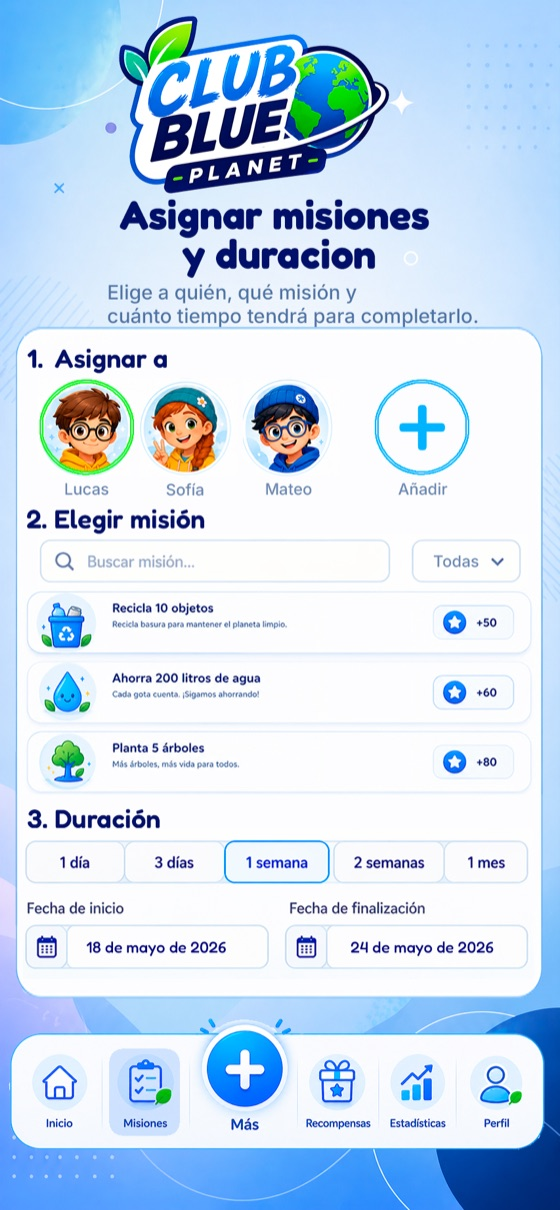
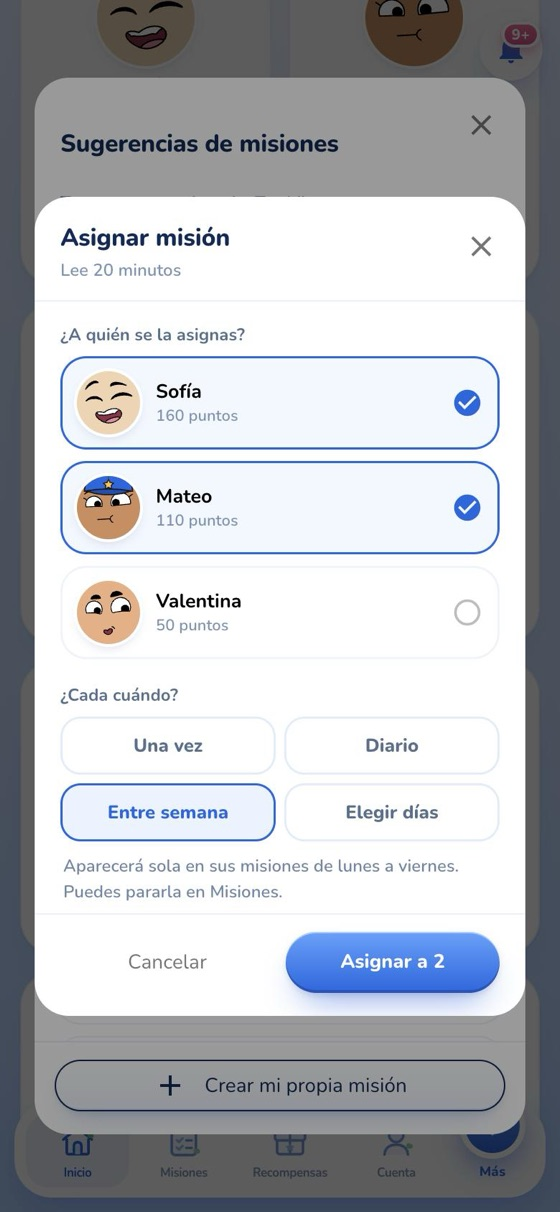
Home: real app screenshots; copy matches what the app does; drop placeholder stats and testimonials

diff --git a/home/index.html b/home/index.html
@@ -473,8 +473,8 @@
         <div class="mt-10 grid items-center gap-10 md:grid-cols-2 md:gap-14">
           <div class="phone-stage mx-auto w-full max-w-[290px]">
             <div class="phone">
-              <img src="assets/screens/asignar.jpg" width="560" height="1210"
-                   alt="Pantalla de la app para asignar misiones y elegir su duración" loading="lazy" />
+              <img src="assets/screens/asignar.jpg" width="560" height="1212"
+                   alt="Pantalla de la app para asignar una misión a tus hijos y elegir cada cuándo se repite" loading="lazy" />
               <span class="glass"></span>
             </div>
           </div>
@@ -516,15 +516,15 @@
       <div class="mt-12 grid justify-center gap-10 sm:grid-cols-2 sm:gap-8 md:gap-14">
         <div class="phone-stage mx-auto w-full max-w-[290px]">
           <div class="phone">
-            <img src="assets/screens/monitorear.jpg" width="560" height="1210"
+            <img src="assets/screens/monitorear.jpg" width="560" height="1212"
                  alt="Pantalla para monitorear y aprobar las tareas de tus hijos" loading="lazy" />
               <span class="glass"></span>
           </div>
         </div>
         <div class="phone-stage mx-auto w-full max-w-[290px] sm:mt-12">
           <div class="phone">
-            <img src="assets/screens/sugeridas.jpg" width="560" height="1210"
-                 alt="Pantalla con las misiones sugeridas para asignar" loading="lazy" />
+            <img src="assets/screens/sugeridas.jpg" width="560" height="1212"
+                 alt="Pantalla con las misiones sugeridas, listas para asignar" loading="lazy" />
               <span class="glass"></span>
           </div>
         </div>
@@ -541,7 +541,7 @@
           <span class="tile tile-blue"><svg viewBox="0 0 150 150" fill="none" class="h-10 w-10" aria-hidden="true" xmlns="http://www.w3.org/2000/svg"><path d="M43.75 106.25V81.25L106.25 18.75L131.25 43.75L68.75 106.25H43.75Z" stroke="currentColor" stroke-width="12.5" stroke-linecap="round" stroke-linejoin="round"/><path d="M18.75 131.25H131.25" stroke="currentColor" stroke-width="12.5" stroke-linecap="round" stroke-linejoin="round"/><path d="M87.5 37.5L112.5 62.5" stroke="currentColor" stroke-width="12.5" stroke-linecap="round" stroke-linejoin="round"/></svg></span>
           <h3 class="mt-4 text-lg font-black leading-tight text-brand-primary">Asigna y personaliza</h3>
           <p class="mt-2 text-sm font-semibold leading-relaxed text-brand-navy/70">
-            Elige misiones, establece metas y adapta las experiencias a su edad.
+            Elige misiones, crea rutinas diarias y recibe ideas pensadas para su edad.
           </p>
         </article>
 
@@ -549,15 +549,15 @@
           <span class="tile tile-green"><svg viewBox="0 0 150 150" fill="none" class="h-10 w-10" aria-hidden="true" xmlns="http://www.w3.org/2000/svg"><path d="M118.75 131.25C118.75 132.908 119.408 134.497 120.581 135.669C121.753 136.842 123.342 137.5 125 137.5C126.658 137.5 128.247 136.842 129.419 135.669C130.592 134.497 131.25 132.908 131.25 131.25H118.75ZM18.75 131.25C18.75 132.908 19.4085 134.497 20.5806 135.669C21.7527 136.842 23.3424 137.5 25 137.5C26.6576 137.5 28.2473 136.842 29.4194 135.669C30.5915 134.497 31.25 132.908 31.25 131.25H18.75ZM116.169 65.6125C115.588 65.0318 114.899 64.5712 114.14 64.2569C113.381 63.9427 112.568 63.7809 111.747 63.7809C110.926 63.7809 110.112 63.9427 109.354 64.2569C108.595 64.5712 107.906 65.0318 107.325 65.6125C106.744 66.1932 106.284 66.8826 105.969 67.6413C105.655 68.4 105.493 69.2132 105.493 70.0344C105.493 70.8556 105.655 71.6688 105.969 72.4275C106.284 73.1862 106.744 73.8756 107.325 74.4562L111.744 70.0375L116.169 65.6125ZM120.588 78.875L116.169 83.2937C117.341 84.4635 118.929 85.1205 120.584 85.1205C122.24 85.1205 123.828 84.4635 125 83.2937L120.588 78.875ZM142.7 65.6375C143.281 65.0576 143.742 64.369 144.057 63.6109C144.372 62.8528 144.535 62.0401 144.536 61.2191C144.537 60.3982 144.376 59.5851 144.062 58.8264C143.749 58.0676 143.289 57.378 142.709 56.7969C142.13 56.2158 141.441 55.7546 140.683 55.4396C139.925 55.1247 139.112 54.9621 138.291 54.9612C137.47 54.9604 136.657 55.1212 135.898 55.4345C135.139 55.7479 134.45 56.2076 133.869 56.7875L138.281 61.2125L142.7 65.6375ZM50 93.75V100H100V87.5H50V93.75ZM125 118.75H118.75V131.25H131.25V118.75H125ZM25 131.25H31.25V118.75H18.75V131.25H25ZM100 43.75H93.75C93.75 48.7228 91.7746 53.4919 88.2583 57.0083C84.742 60.5246 79.9728 62.5 75 62.5V75C79.1038 75 83.1674 74.1917 86.9589 72.6212C90.7503 71.0508 94.1953 68.7489 97.0971 65.8471C99.9989 62.9453 102.301 59.5003 103.871 55.7089C105.442 51.9174 106.25 47.8538 106.25 43.75H100ZM75 68.75V62.5C70.0272 62.5 65.2581 60.5246 61.7417 57.0083C58.2254 53.4919 56.25 48.7228 56.25 43.75H43.75C43.75 52.038 47.0424 59.9866 52.9029 65.8471C58.7634 71.7076 66.712 75 75 75V68.75ZM50 43.75H56.25C56.25 38.7772 58.2254 34.0081 61.7417 30.4917C65.2581 26.9754 70.0272 25 75 25V12.5C66.712 12.5 58.7634 15.7924 52.9029 21.6529C47.0424 27.5134 43.75 35.462 43.75 43.75H50ZM75 18.75V25C79.9728 25 84.742 26.9754 88.2583 30.4917C91.7746 34.0081 93.75 38.7772 93.75 43.75H106.25C106.25 35.462 102.958 27.5134 97.0971 21.6529C91.2366 15.7924 83.288 12.5 75 12.5V18.75ZM111.744 70.0375L107.325 74.4562L116.169 83.2937L120.588 78.875L125.006 74.4562L116.169 65.6125L111.744 70.0375ZM120.588 78.875L125 83.3L142.7 65.6375L138.281 61.2125L133.869 56.7875L116.169 74.45L120.588 78.875ZM100 93.75V100C104.973 100 109.742 101.975 113.258 105.492C116.775 109.008 118.75 113.777 118.75 118.75H131.25C131.25 110.462 127.958 102.513 122.097 96.6529C116.237 90.7924 108.288 87.5 100 87.5V93.75ZM50 93.75V87.5C41.712 87.5 33.7634 90.7924 27.9029 96.6529C22.0424 102.513 18.75 110.462 18.75 118.75H31.25C31.25 113.777 33.2254 109.008 36.7417 105.492C40.2581 101.975 45.0272 100 50 100V93.75Z" fill="currentColor"/></svg></span>
           <h3 class="mt-4 text-lg font-black leading-tight text-brand-primary">Sigue su progreso</h3>
           <p class="mt-2 text-sm font-semibold leading-relaxed text-brand-navy/70">
-            Consulta logros, puntos y hábitos en tiempo real desde tu panel.
+            Consulta puntos, rachas e insignias de cada hijo desde tu panel.
           </p>
         </article>
 
         <article class="card rise p-6 text-center">
           <span class="tile tile-purple"><svg viewBox="0 0 150 150" fill="none" class="h-10 w-10" aria-hidden="true" xmlns="http://www.w3.org/2000/svg"><path d="M131.25 37.5L98.1687 70.5813C96.9967 71.7529 95.4073 72.4112 93.75 72.4112C92.0927 72.4112 90.5033 71.7529 89.3313 70.5813L79.4187 60.6687C78.2467 59.4971 76.6573 58.8388 75 58.8388C73.3427 58.8388 71.7533 59.4971 70.5813 60.6687L43.75 87.5" stroke="currentColor" stroke-width="12.5" stroke-linecap="round" stroke-linejoin="round"/><path d="M18.75 18.75V111.25C18.75 118.25 18.75 121.75 20.1125 124.425C21.3109 126.777 23.2231 128.689 25.575 129.887C28.25 131.25 31.75 131.25 38.75 131.25H131.25" stroke="currentColor" stroke-width="12.5" stroke-linecap="round"/></svg></span>
-          <h3 class="mt-4 text-lg font-black leading-tight text-brand-primary">Estadísticas en tiempo real</h3>
+          <h3 class="mt-4 text-lg font-black leading-tight text-brand-primary">Reporte semanal</h3>
           <p class="mt-2 text-sm font-semibold leading-relaxed text-brand-navy/70">
-            Consulta el progreso, puntos y misiones completadas cuando quieras.
+            Cada lunes recibes por correo cómo les fue: misiones, puntos y rachas.
           </p>
         </article>
 
@@ -565,7 +565,7 @@
           <span class="tile tile-amber"><svg viewBox="0 0 150 150" fill="none" class="h-10 w-10" aria-hidden="true" xmlns="http://www.w3.org/2000/svg"><path d="M106.062 90.25C114.625 91.6875 124.062 90.1875 130.687 85.75C139.5 79.875 139.5 70.25 130.687 64.375C124 59.9375 114.438 58.4375 105.875 59.9375M43.75 90.25C35.1875 91.6875 25.75 90.1875 19.125 85.75C10.3125 79.875 10.3125 70.25 19.125 64.375C25.8125 59.9375 35.375 58.4375 43.9375 59.9375M112.5 44.75C112.107 44.6869 111.706 44.6869 111.312 44.75C107.141 44.5992 103.192 42.8326 100.3 39.8235C97.4076 36.8145 95.7984 32.7987 95.8125 28.625C95.8125 19.6875 103 12.5 111.938 12.5C116.214 12.5 120.316 14.1989 123.34 17.2229C126.364 20.2469 128.062 24.3484 128.062 28.625C128.049 32.8013 126.423 36.8109 123.523 39.8159C120.623 42.8209 116.673 44.5888 112.5 44.75ZM37.3125 44.75C37.6875 44.6875 38.125 44.6875 38.5 44.75C42.671 44.5992 46.6201 42.8326 49.5125 39.8235C52.4049 36.8145 54.0141 32.7987 54 28.625C54 19.6875 46.8125 12.5 37.875 12.5C33.5984 12.5 29.4969 14.1989 26.4729 17.2229C23.4489 20.2469 21.75 24.3484 21.75 28.625C21.8125 37.375 28.6875 44.4375 37.3125 44.75ZM75 91.4375C74.6067 91.3744 74.2058 91.3744 73.8125 91.4375C69.6415 91.2867 65.6925 89.5201 62.8 86.511C59.9076 83.502 58.2984 79.4863 58.3125 75.3125C58.3125 66.375 65.5 59.1875 74.4375 59.1875C78.7141 59.1875 82.8156 60.8864 85.8396 63.9104C88.8636 66.9344 90.5625 71.0359 90.5625 75.3125C90.5 84.0625 83.625 91.1875 75 91.4375ZM56.8125 111.125C48 117 48 126.625 56.8125 132.5C66.8125 139.188 83.1875 139.188 93.1875 132.5C102 126.625 102 117 93.1875 111.125C83.25 104.5 66.8125 104.5 56.8125 111.125Z" stroke="currentColor" stroke-width="10" stroke-linecap="round" stroke-linejoin="round"/></svg></span>
           <h3 class="mt-4 text-lg font-black leading-tight text-brand-primary">Misiones supervisadas</h3>
           <p class="mt-2 text-sm font-semibold leading-relaxed text-brand-navy/70">
-            Las tareas fuera de casa siempre requieren acompañamiento de un adulto.
+            Le recordamos a tu hijo que las tareas fuera de casa se hacen acompañado de un adulto.
           </p>
         </article>
 
@@ -573,7 +573,7 @@
           <span class="tile tile-green"><svg viewBox="0 0 150 150" fill="none" class="h-10 w-10" aria-hidden="true" xmlns="http://www.w3.org/2000/svg"><path d="M77.7624 130.475C76.8462 130.75 75.9253 131.008 74.9999 131.25C65.27 128.726 56.1467 124.272 48.1721 118.153C40.1975 112.034 33.5344 104.374 28.5787 95.6283C23.6229 86.8829 20.4758 77.2306 19.3242 67.2449C18.1725 57.2592 19.04 47.1438 21.8749 37.5C41.347 38.391 60.401 31.6661 74.9999 18.75C89.5989 31.6661 108.653 38.391 128.125 37.5C131.917 50.3949 132.174 64.0718 128.869 77.1M118.75 137.5V100M99.9999 118.75L118.75 100L137.5 118.75" stroke="currentColor" stroke-width="12.5" stroke-linecap="round" stroke-linejoin="round"/></svg></span>
           <h3 class="mt-4 text-lg font-black leading-tight text-brand-primary">Seguro y confiable</h3>
           <p class="mt-2 text-sm font-semibold leading-relaxed text-brand-navy/70">
-            Un entorno protegido, diseñado para niños y aprobado por padres.
+            Tus hijos entran con un código que tú generas. Sin correo, sin contraseña, sin anuncios.
           </p>
         </article>
 
@@ -581,7 +581,7 @@
           <span class="tile tile-amber"><svg viewBox="0 0 150 150" fill="none" class="h-10 w-10" aria-hidden="true" xmlns="http://www.w3.org/2000/svg"><path d="M64.0187 101.963L37.5 75.4377L46.3375 66.6002L64.0187 84.2752L99.3688 48.9189L108.212 57.7627L64.0187 101.963Z" fill="currentColor"/><path fill-rule="evenodd" clip-rule="evenodd" d="M6.25 75C6.25 37.0313 37.0313 6.25 75 6.25C112.969 6.25 143.75 37.0313 143.75 75C143.75 112.969 112.969 143.75 75 143.75C37.0313 143.75 6.25 112.969 6.25 75ZM75 131.25C67.6131 131.25 60.2986 129.795 53.4741 126.968C46.6495 124.141 40.4485 119.998 35.2252 114.775C30.0019 109.551 25.8586 103.351 23.0318 96.5259C20.2049 89.7014 18.75 82.3869 18.75 75C18.75 67.6131 20.2049 60.2986 23.0318 53.4741C25.8586 46.6495 30.0019 40.4485 35.2252 35.2252C40.4485 30.0019 46.6495 25.8586 53.4741 23.0318C60.2986 20.2049 67.6131 18.75 75 18.75C89.9184 18.75 104.226 24.6763 114.775 35.2252C125.324 45.7742 131.25 60.0816 131.25 75C131.25 89.9184 125.324 104.226 114.775 114.775C104.226 125.324 89.9184 131.25 75 131.25Z" fill="currentColor"/></svg></span>
           <h3 class="mt-4 text-lg font-black leading-tight text-brand-primary">Apruebas cada recompensa</h3>
           <p class="mt-2 text-sm font-semibold leading-relaxed text-brand-navy/70">
-            Antes de que tu hijo canjee sus puntos, tú das el visto bueno final.
+            Tu hijo pide su premio con sus puntos y tú decides cuándo se lo entregas.
           </p>
         </article>
 
@@ -589,7 +589,7 @@
           <span class="tile tile-pink"><svg viewBox="0 0 150 150" fill="none" class="h-10 w-10" aria-hidden="true" xmlns="http://www.w3.org/2000/svg"><path d="M90.625 117.188H100V107.812H90.625V117.188ZM107.812 117.188H117.188V107.812H107.812V117.188ZM125 117.188H134.375V107.812H125V117.188ZM18.75 131.25V18.75H131.25V73.125C129.271 72.1875 127.24 71.3812 125.156 70.7062C123.073 70.0312 120.938 69.5354 118.75 69.2188V31.25H31.25V118.75H69.0625C69.375 121.042 69.8708 123.229 70.55 125.312C71.2292 127.396 72.0354 129.375 72.9688 131.25H18.75ZM31.25 112.5V118.75V31.25V69.2188V68.75V112.5ZM43.75 106.25H69.2188C69.5312 104.062 70.0271 101.927 70.7062 99.8438C71.3854 97.7604 72.1396 95.7292 72.9688 93.75H43.75V106.25ZM43.75 81.25H81.875C85.2083 78.125 88.9333 75.5208 93.05 73.4375C97.1667 71.3542 101.567 69.9479 106.25 69.2188V68.75H43.75V81.25ZM43.75 56.25H106.25V43.75H43.75V56.25ZM112.5 143.75C103.854 143.75 96.4854 140.702 90.3938 134.606C84.3021 128.51 81.2542 121.142 81.25 112.5C81.2458 103.858 84.2938 96.4896 90.3938 90.3938C96.4938 84.2979 103.863 81.25 112.5 81.25C121.137 81.25 128.508 84.2979 134.613 90.3938C140.717 96.4896 143.762 103.858 143.75 112.5C143.738 121.142 140.69 128.512 134.606 134.613C128.523 140.713 121.154 143.758 112.5 143.75Z" fill="currentColor"/></svg></span>
           <h3 class="mt-4 text-lg font-black leading-tight text-brand-primary">Personaliza misiones</h3>
           <p class="mt-2 text-sm font-semibold leading-relaxed text-brand-navy/70">
-            Tu hijo puede proponer misiones personalizadas.
+            Tu hijo puede proponer sus propias misiones, y tú decides si las aceptas.
           </p>
         </article>
 
@@ -597,7 +597,7 @@
           <span class="tile tile-blue"><svg viewBox="0 0 150 150" fill="none" class="h-10 w-10" aria-hidden="true" xmlns="http://www.w3.org/2000/svg"><path d="M96.875 18.75H53.125L43.75 37.5H12.5V125H137.5V37.5H106.25L96.875 18.75Z" stroke="currentColor" stroke-width="12.5"/><path d="M100 78.125C100 84.7554 97.3661 91.1143 92.6777 95.8027C87.9893 100.491 81.6304 103.125 75 103.125C68.3696 103.125 62.0107 100.491 57.3223 95.8027C52.6339 91.1143 50 84.7554 50 78.125C50 71.4946 52.6339 65.1357 57.3223 60.4473C62.0107 55.7589 68.3696 53.125 75 53.125C81.6304 53.125 87.9893 55.7589 92.6777 60.4473C97.3661 65.1357 100 71.4946 100 78.125Z" stroke="currentColor" stroke-width="12.5"/></svg></span>
           <h3 class="mt-4 text-lg font-black leading-tight text-brand-primary">Evidencia verificable</h3>
           <p class="mt-2 text-sm font-semibold leading-relaxed text-brand-navy/70">
-            Cada misión se reporta con una foto, así siempre sabes qué hizo tu hijo.
+            Cada misión se reporta con una foto y tú la apruebas antes de dar los puntos.
           </p>
         </article>
       </div>
@@ -612,19 +612,17 @@
       </h2>
       <p class="mt-6 max-w-xl text-base leading-relaxed md:text-lg">
         Cada misión completa es una acción real.<br />
-        Esto es lo que ha logrado la familia <strong class="font-black">Club Blue Planet</strong>.
+        Esto es lo que encuentras en <strong class="font-black">Club Blue Planet</strong>.
       </p>
 
-      <!-- ponytail: figures are placeholders from the mockup — swap for real
-           numbers (or a D1 aggregate) before this goes to a public domain. -->
       <div class="band mt-10 grid gap-x-10 gap-y-8 rounded-[2rem] px-7 py-10 text-white sm:grid-cols-2 md:px-12">
         <div class="flex items-center gap-4">
           <span class="chip"><svg class="h-7 w-7" style="color:#C6E44B" viewBox="0 0 24 24" fill="none" stroke="currentColor" stroke-width="1.9" stroke-linecap="round" stroke-linejoin="round">
             <path d="M17 20v-2a4 4 0 0 0-4-4H6a4 4 0 0 0-4 4v2M9.5 7a3.5 3.5 0 1 1-7 0 3.5 3.5 0 0 1 7 0zM22 20v-2a4 4 0 0 0-3-3.87M16 3.13a4 4 0 0 1 0 7.75" />
           </svg></span>
           <div>
-            <div class="num text-2xl font-black leading-none md:text-3xl">12,400</div>
-            <div class="mt-1.5 text-sm font-semibold text-white/80">Familias en el Club</div>
+            <div class="num text-2xl font-black leading-none md:text-3xl">18</div>
+            <div class="mt-1.5 text-sm font-semibold text-white/80">Misiones sugeridas para empezar</div>
           </div>
         </div>
 
@@ -634,8 +632,8 @@
             <path d="M22 4 12 14.01l-3-3" />
           </svg></span>
           <div>
-            <div class="num text-2xl font-black leading-none md:text-3xl">89,000</div>
-            <div class="mt-1.5 text-sm font-semibold text-white/80">Misiones completadas</div>
+            <div class="num text-2xl font-black leading-none md:text-3xl">12</div>
+            <div class="mt-1.5 text-sm font-semibold text-white/80">Tipos de misión: higiene, escuela, deporte y más</div>
           </div>
         </div>
 
@@ -645,8 +643,8 @@
             <path d="M7 11l4.5-8.5a2.5 2.5 0 0 1 4.7 1.6L15.4 9H20a2 2 0 0 1 2 2.4l-1.6 8A2 2 0 0 1 18.4 21H7" />
           </svg></span>
           <div>
-            <div class="num text-2xl font-black leading-none md:text-3xl">24,000</div>
-            <div class="mt-1.5 text-sm font-semibold text-white/80">Niños con mejores hábitos</div>
+            <div class="num text-2xl font-black leading-none md:text-3xl">🔥</div>
+            <div class="mt-1.5 text-sm font-semibold text-white/80">Rachas diarias que premian la constancia</div>
           </div>
         </div>
 
@@ -656,66 +654,14 @@
             <path d="M18 5h2.5a2.5 2.5 0 0 1 0 5H18M6 5H3.5a2.5 2.5 0 0 0 0 5H6M9 21h6M12 16v5" />
           </svg></span>
           <div>
-            <div class="num text-2xl font-black leading-none md:text-3xl">30,000</div>
-            <div class="mt-1.5 text-sm font-semibold text-white/80">Aventuras por descubrir</div>
+            <div class="num text-2xl font-black leading-none md:text-3xl">20</div>
+            <div class="mt-1.5 text-sm font-semibold text-white/80">Hijos por familia, y puedes invitar a otro tutor</div>
           </div>
         </div>
       </div>
     </div>
   </section>
 
-  <!-- ─────────────── Testimonios ─────────────── -->
-  <section>
-    <div class="mx-auto max-w-content px-5 py-14 md:py-20">
-      <h2 class="rule-accent text-2xl font-black md:text-4xl">
-        Lo que dicen otros <span class="text-brand-primary">padres.</span>
-      </h2>
-
-      <!-- ponytail: sample testimonials copied from the mockup. Replace with
-           real, attributable quotes before launch — these read as genuine. -->
-      <div class="mt-10 grid gap-5 md:grid-cols-3">
-        <figure class="card-quote q-amber p-6">
-          <figcaption class="text-sm font-bold text-brand-navy/70">Laura, mamá de Sofía</figcaption>
-          <div class="mt-2 flex gap-1 text-[#E0A008]" aria-label="5 de 5 estrellas">
-            <svg class="h-4 w-4" viewBox="0 0 24 24" fill="currentColor"><path d="m12 2 3 6.5 7 .9-5 4.8 1.3 7L12 17.8 5.7 21.2 7 14.2 2 9.4l7-.9z"/></svg>
-            <svg class="h-4 w-4" viewBox="0 0 24 24" fill="currentColor"><path d="m12 2 3 6.5 7 .9-5 4.8 1.3 7L12 17.8 5.7 21.2 7 14.2 2 9.4l7-.9z"/></svg>
-            <svg class="h-4 w-4" viewBox="0 0 24 24" fill="currentColor"><path d="m12 2 3 6.5 7 .9-5 4.8 1.3 7L12 17.8 5.7 21.2 7 14.2 2 9.4l7-.9z"/></svg>
-            <svg class="h-4 w-4" viewBox="0 0 24 24" fill="currentColor"><path d="m12 2 3 6.5 7 .9-5 4.8 1.3 7L12 17.8 5.7 21.2 7 14.2 2 9.4l7-.9z"/></svg>
-            <svg class="h-4 w-4" viewBox="0 0 24 24" fill="currentColor"><path d="m12 2 3 6.5 7 .9-5 4.8 1.3 7L12 17.8 5.7 21.2 7 14.2 2 9.4l7-.9z"/></svg>
-          </div>
-          <blockquote class="mt-4 text-[15px] font-semibold leading-relaxed text-brand-navy/80">
-            “Me encanta poder aprobar cada recompensa. Mi hijo aprendió a reciclar sin que se lo tuviera que repetir.”
-          </blockquote>
-        </figure>
-        <figure class="card-quote q-pink p-6">
-          <figcaption class="text-sm font-bold text-brand-navy/70">Daniel, papá de Marco</figcaption>
-          <div class="mt-2 flex gap-1 text-[#E0A008]" aria-label="5 de 5 estrellas">
-            <svg class="h-4 w-4" viewBox="0 0 24 24" fill="currentColor"><path d="m12 2 3 6.5 7 .9-5 4.8 1.3 7L12 17.8 5.7 21.2 7 14.2 2 9.4l7-.9z"/></svg>
-            <svg class="h-4 w-4" viewBox="0 0 24 24" fill="currentColor"><path d="m12 2 3 6.5 7 .9-5 4.8 1.3 7L12 17.8 5.7 21.2 7 14.2 2 9.4l7-.9z"/></svg>
-            <svg class="h-4 w-4" viewBox="0 0 24 24" fill="currentColor"><path d="m12 2 3 6.5 7 .9-5 4.8 1.3 7L12 17.8 5.7 21.2 7 14.2 2 9.4l7-.9z"/></svg>
-            <svg class="h-4 w-4" viewBox="0 0 24 24" fill="currentColor"><path d="m12 2 3 6.5 7 .9-5 4.8 1.3 7L12 17.8 5.7 21.2 7 14.2 2 9.4l7-.9z"/></svg>
-            <svg class="h-4 w-4" viewBox="0 0 24 24" fill="currentColor"><path d="m12 2 3 6.5 7 .9-5 4.8 1.3 7L12 17.8 5.7 21.2 7 14.2 2 9.4l7-.9z"/></svg>
-          </div>
-          <blockquote class="mt-4 text-[15px] font-semibold leading-relaxed text-brand-navy/80">
-            “Por fin una app donde sé exactamente qué está haciendo mi hijo. Las fotos de evidencia me dan mucha tranquilidad.”
-          </blockquote>
-        </figure>
-        <figure class="card-quote q-green p-6">
-          <figcaption class="text-sm font-bold text-brand-navy/70">Paola, mamá de Lucas</figcaption>
-          <div class="mt-2 flex gap-1 text-[#E0A008]" aria-label="5 de 5 estrellas">
-            <svg class="h-4 w-4" viewBox="0 0 24 24" fill="currentColor"><path d="m12 2 3 6.5 7 .9-5 4.8 1.3 7L12 17.8 5.7 21.2 7 14.2 2 9.4l7-.9z"/></svg>
-            <svg class="h-4 w-4" viewBox="0 0 24 24" fill="currentColor"><path d="m12 2 3 6.5 7 .9-5 4.8 1.3 7L12 17.8 5.7 21.2 7 14.2 2 9.4l7-.9z"/></svg>
-            <svg class="h-4 w-4" viewBox="0 0 24 24" fill="currentColor"><path d="m12 2 3 6.5 7 .9-5 4.8 1.3 7L12 17.8 5.7 21.2 7 14.2 2 9.4l7-.9z"/></svg>
-            <svg class="h-4 w-4" viewBox="0 0 24 24" fill="currentColor"><path d="m12 2 3 6.5 7 .9-5 4.8 1.3 7L12 17.8 5.7 21.2 7 14.2 2 9.4l7-.9z"/></svg>
-            <svg class="h-4 w-4" viewBox="0 0 24 24" fill="currentColor"><path d="m12 2 3 6.5 7 .9-5 4.8 1.3 7L12 17.8 5.7 21.2 7 14.2 2 9.4l7-.9z"/></svg>
-          </div>
-          <blockquote class="mt-4 text-[15px] font-semibold leading-relaxed text-brand-navy/80">
-            “Las estadísticas semanales se volvieron parte de nuestra rutina familiar. Mis hijos compiten sanamente por sus insignias.”
-          </blockquote>
-        </figure>
-      </div>
-    </div>
-  </section>
 
   </div>
 
